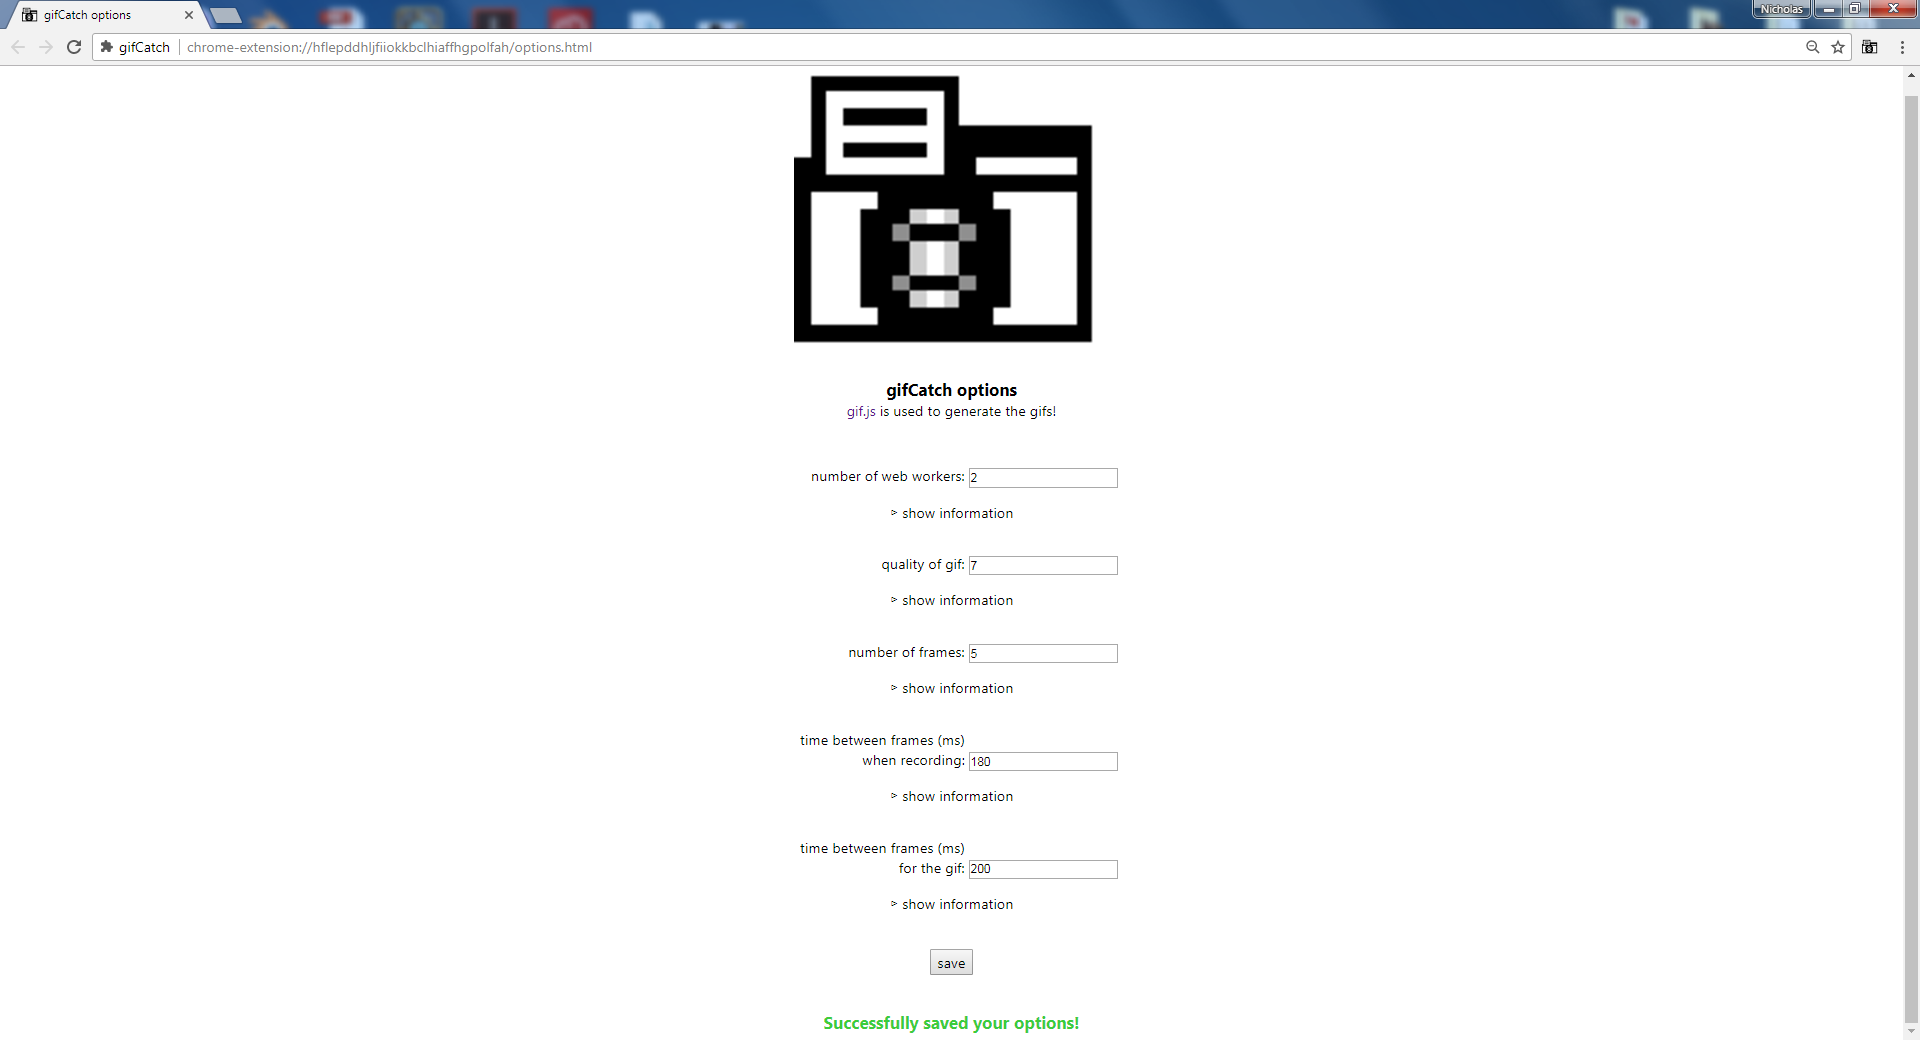
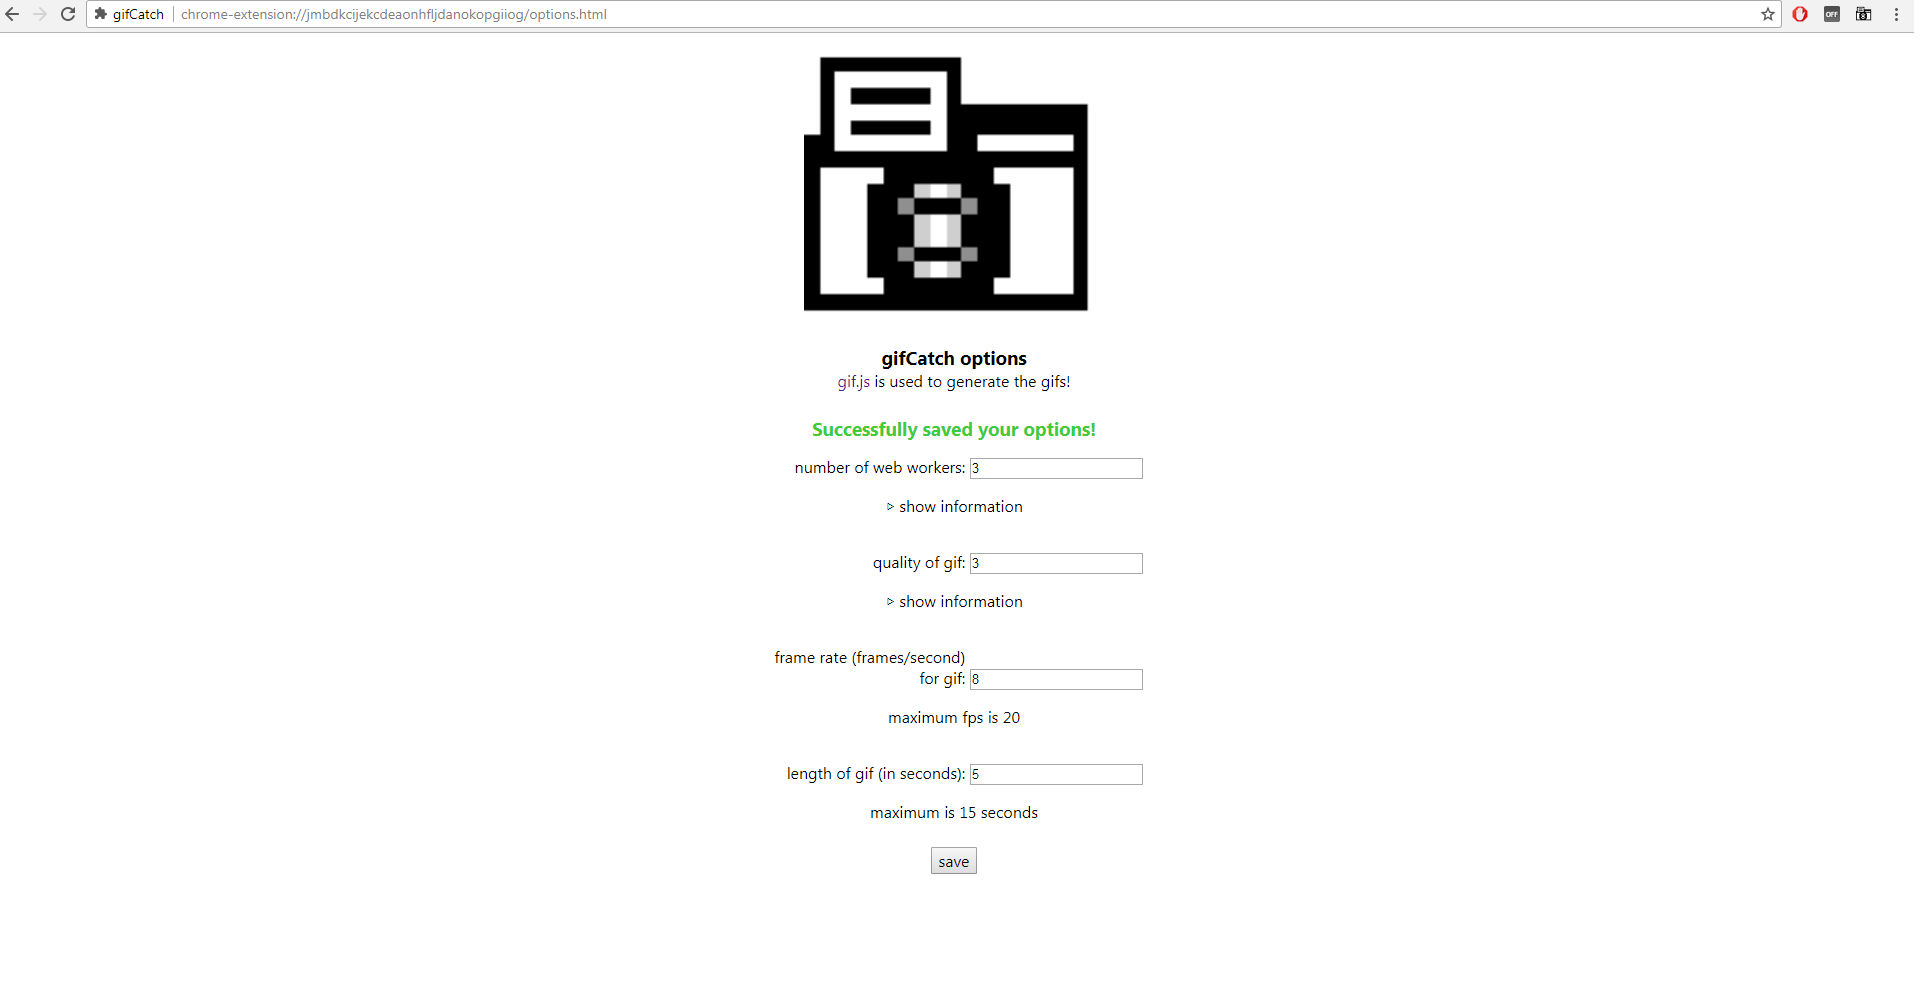
this is a bit tricky. I think that the captureTab function takes quite a bit of time, so that trying to take a snapshot of the screen every x seconds won't work very well. instead, I think intead of using setTimeout like before, it's fine without it. additionally, I set the number of frames to be a 

diff --git a/app/background.js b/app/background.js
@@ -5,44 +5,59 @@ chrome.runtime.onMessage.addListener(function(request, sender, sendResponse){
 	// verify request 
 	if(request.check === 'confirm'){
 		// get data from storage
-		chrome.storage.sync.get(['numWorkers', 'quality', 'numFrames', 'delay', 'gifDelay'], function(data){
+		chrome.storage.sync.get(['numWorkers', 'quality', 'frameRate', 'recordTime'], function(data){
 			// change icon to indicate in progress
 			chrome.browserAction.setIcon({path: 'icon_green.png'}, function(){
 				// added some default values just in case user does not touch options 
 				var numWorkers = data.numWorkers || 2;
 				var gifQuality = data.quality || 10;
-				var numFrames = data.numFrames || 10;   // number of frames 
-				var timeDelay = data.delay || 200;    // delay in ms when recording 
-				var gifDelay = data.gifDelay || 200;  // delay for frames during gif creation
+				//var numFrames = data.numFrames || 10;   // number of frames 
+				var frameRate = data.frameRate || 5;    // framerate(fps) when recording 
+				var recordTime = data.recordTime || 3;  // time to record in seconds
 				
 				var images = [];
+				
+				// given the frame rate (frames per second), and the length of time to record (in seconds),
+				// need to calculate delay between each frame capture in milliseconds, and convert time to record 
+				// in milliseconds 
+				var timeDelay = Math.floor(1000 / frameRate);
+				var numFrames = Math.floor((recordTime * 1000) / 200); // 200 seems like a good number 
+				
+				//console.log("frameRate: " + frameRate + ", recordTime: " + recordTime);
+				//console.log("timedelay: " + timeDelay + ", numFrames: " + numFrames);
 				
 				var promise = new Promise(function(resolve, reject){
 					(function getImages(numTimes){
 						if(numTimes < numFrames){
 							// capture tab screenshot
-							chrome.tabs.captureVisibleTab(null, {'format': 'png'}, function(img){	
-								images.push( addImage(img) );
+							// I think this function actually takes quite a few milliseconds to execute.
+							// therefore, if you want to take a snapshot every 200 ms, for example, the time
+							// between snapshots is actually going to be considerably longer! 
+							chrome.tabs.captureVisibleTab(null, {'format': 'png'}, function(img){
+								
+								//console.log(Date.now());
+								images.push(addImage(img));
 								
 								// recursively call this function but with the arg incremented by 1
-								setTimeout(function(){ getImages(numTimes + 1) }, timeDelay);
+								//setTimeout(function(){ getImages(numTimes + 1) }, 1);
+								getImages(numTimes + 1);
 							});
 						}else{
+							// tell content_script (areaSelection.js) that frame collection is done 
+							sendResponse({status: 'done'});
 							resolve("done!");
 							return;
 						}
 					})(0); // pass in 0 as initial arg
 				});
-
+				
 				promise.then(function(successMsg){
-
+					//console.log(images);
+					
 					// change icon back to default to indicate finished and get gif 
 					chrome.browserAction.setIcon({path: 'icon.png'}, function(){
 						
-						// tell content_script (areaSelection.js) that frame collection is done 
-						sendResponse({'status': 'done'});
-						
-						// make gif here 		
+						// make gif here 
 						var gif = new GIF({
 							workers: numWorkers,
 							quality: gifQuality 
@@ -50,7 +65,7 @@ chrome.runtime.onMessage.addListener(function(request, sender, sendResponse){
 						
 						// add frames
 						for(var i = 0; i < images.length; i++){
-							
+						
 							// take img data, put it into canvas element, crop, add that to gif 
 							var canvas = document.createElement('canvas');
 							canvas.width = images[i].width;
@@ -66,7 +81,8 @@ chrome.runtime.onMessage.addListener(function(request, sender, sendResponse){
 							canvas.height = request.endY - request.startY;
 							ctx.putImageData(selectedData, 0, 0);
 							
-							gif.addFrame(canvas, {delay: gifDelay});
+							// technically, I think this timeDelay really should be the frame rate of the video being captured 
+							gif.addFrame(canvas, {delay: timeDelay});
 						}
 						
 						gif.on('finished', function(blob){
@@ -84,6 +100,7 @@ chrome.runtime.onMessage.addListener(function(request, sender, sendResponse){
 		return true;
 	}
 });
+
 
 function addImage(img){
 	var image = document.createElement('img');

diff --git a/app/options.js b/app/options.js
@@ -13,15 +13,22 @@ function save_options(){
 	// get quality
 	var quality = parseInt( document.getElementById('quality').value );
 	
-	// get num frames
-	var frames = parseInt( document.getElementById('numFrames').value );
+	// get frame rate (limit to <= 30)
+	var frameRate = parseInt( document.getElementById('frameRate').value );
+	if(frameRate < 1){
+		frameRate = 1;
+	}else if(frameRate > 20){
+		frameRate = 20;
+	}
 	
-	// get time delay between frames when recording
-	var delay = parseInt( document.getElementById('delay').value );
+	// get length to record (limit to max 15 seconds)
+	var recordTime = parseInt( document.getElementById('recordTime').value );
+	if(recordTime > 15){
+		recordTime = 15;
+	}else if(recordTime < 1){
+		recordTime = 1;
+	}
 	
-	// get time delay between frames for when generating the gif
-	var gifDelay = parseInt( document.getElementById('gifDelay').value );
-
 	/***
 		verify valid values here?
 	***/
@@ -31,9 +38,8 @@ function save_options(){
 	
 		'numWorkers': workers,
 		'quality': quality,
-		'numFrames': frames,
-		'delay': delay,
-		'gifDelay': gifDelay
+		'frameRate': frameRate,
+		'recordTime': recordTime
 	
 	}, function(){
 	
@@ -41,7 +47,7 @@ function save_options(){
 		var status = document.getElementById('status');
 		status.style.color = '#3ccc3c';
 		status.textContent = "Successfully saved your options!";
-		setTimeout(function(){ status.textContent = '' }, 5000);
+		setTimeout(function(){ status.textContent = '' }, 3000);
 	
 	});	
 }
@@ -76,7 +82,6 @@ var elements = document.querySelectorAll('.section');
 
 for(var i = 0; i < elements.length; i++){
 	elements[i].addEventListener('click', function(){ displayInfo(this.id) });
-	//elements[i].addEventListener('mouseout', function(){ hideInfo(this.id) });
 }
 
 /***
@@ -93,12 +98,11 @@ function validValues(){
 	display current values for parameters 
 
 ***/
-chrome.storage.sync.get(['numWorkers', 'quality', 'numFrames', 'delay', 'gifDelay'], function(data){
+chrome.storage.sync.get(['numWorkers', 'quality', 'frameRate', 'recordTime'], function(data){
 		document.getElementById('numWorkers').value = data.numWorkers || 2;
 		document.getElementById('quality').value = data.quality || 10;
-		document.getElementById('numFrames').value = data.numFrames || 10;
-		document.getElementById('delay').value = data.delay || 200;
-		document.getElementById('gifDelay').value = data.gifDelay || 200;
+		document.getElementById('frameRate').value = data.frameRate || 5; // default frame rate of 5 frames/sec 
+		document.getElementById('recordTime').value = data.recordTime || 3; // record for 3 seconds
 });
 
 

diff --git a/app/options.html b/app/options.html
@@ -46,6 +46,9 @@
 	  #status{
 		margin-bottom: 15px;
 	  }
+	  .info{
+		font-size: 14px;
+	  }
     </style>
 
   </head>
@@ -59,7 +62,7 @@
 	<div>
 		<label> number of web workers: </label> <input type='text' id='numWorkers'></input>
 		<p id='workers' class='section'>&#9655; show information</p>
-		<p id='workersInfo' class='info'> This value corresponds to the number of web workers to spawn, which work in the background to create the gif. <br><br>
+		<p id='workersInfo' class='info'> This value corresponds to the number of <a href='https://developer.mozilla.org/en-US/docs/Web/API/Web_Workers_API/Using_web_workers'>web workers</a> to spawn, which work in the background to create the gif. <br><br>
 		Increasing the number can help speed up the process, but too many workers may result in poor performance. </p>
 	</div>
 	
@@ -68,23 +71,15 @@
 		<p id='qual' class='section'>&#9655; show information</p>
 		<p id='qualInfo' class='info'> This value corresponds to the pixel sample interval. <br> The lower the value, the higher the quality. </p>
 	</div>
-	
+
 	<div>
-		<label> number of frames: </label> <input type='text' id='numFrames'></input>
-		<p id='frames' class='section'>&#9655; show information</p>
-		<p id='framesInfo' class='info'> This value indicates the number of frames to collect. </p> 
-	</div>
-	
-	<div>
-		<label> time between frames (ms) when recording: </label> <input type='text' id='delay'></input>
-		<p id='time' class='section'>&#9655; show information</p>
-		<p id='timeInfo' class='info'> This value indicates the time in milliseconds between frames <b> when recording </b>. </p>
+		<label> frame rate (frames/second) for gif: </label> <input type='text' id='frameRate'></input>
+		<p> maximum fps is 20 </p>
 	</div>
 
 	<div>
-		<label> time between frames (ms) for the gif: </label> <input type='text' id='gifDelay'></input>
-		<p id='gifTime' class='section'>&#9655; show information</p>
-		<p id='gifTimeInfo' class='info'> This value indicates the time in milliseconds between frames <b> for the resulting gif </b>. </p>
+		<label> length of gif (in seconds): </label> <input type='text' id='recordTime'></input>
+		<p> maximum is 15 seconds </p>
 	</div>
 	
 	<button id='save'> save </button>

diff --git a/app/areaSelection.js b/app/areaSelection.js
@@ -88,14 +88,13 @@ function makeSelection(){
 					// delay just a tiny bit so that the canvas selection layer has time to get removed and 
 					// not get caught in the gif (would appear as a slightly darker frame in the gif)
 					setTimeout(function(){ chrome.runtime.sendMessage(coords, function(response){
-						
 						// when response is received, it means that all the frames have been collected
 						if(response.status === 'done'){
 							// remove the selection layer 
 							document.documentElement.removeChild(selectionLayer);
 						}
-						
-					}); }, 15);
+					}); 
+					}, 5);
 				
 				}else{
 					// add the drag event back if redo selection 
